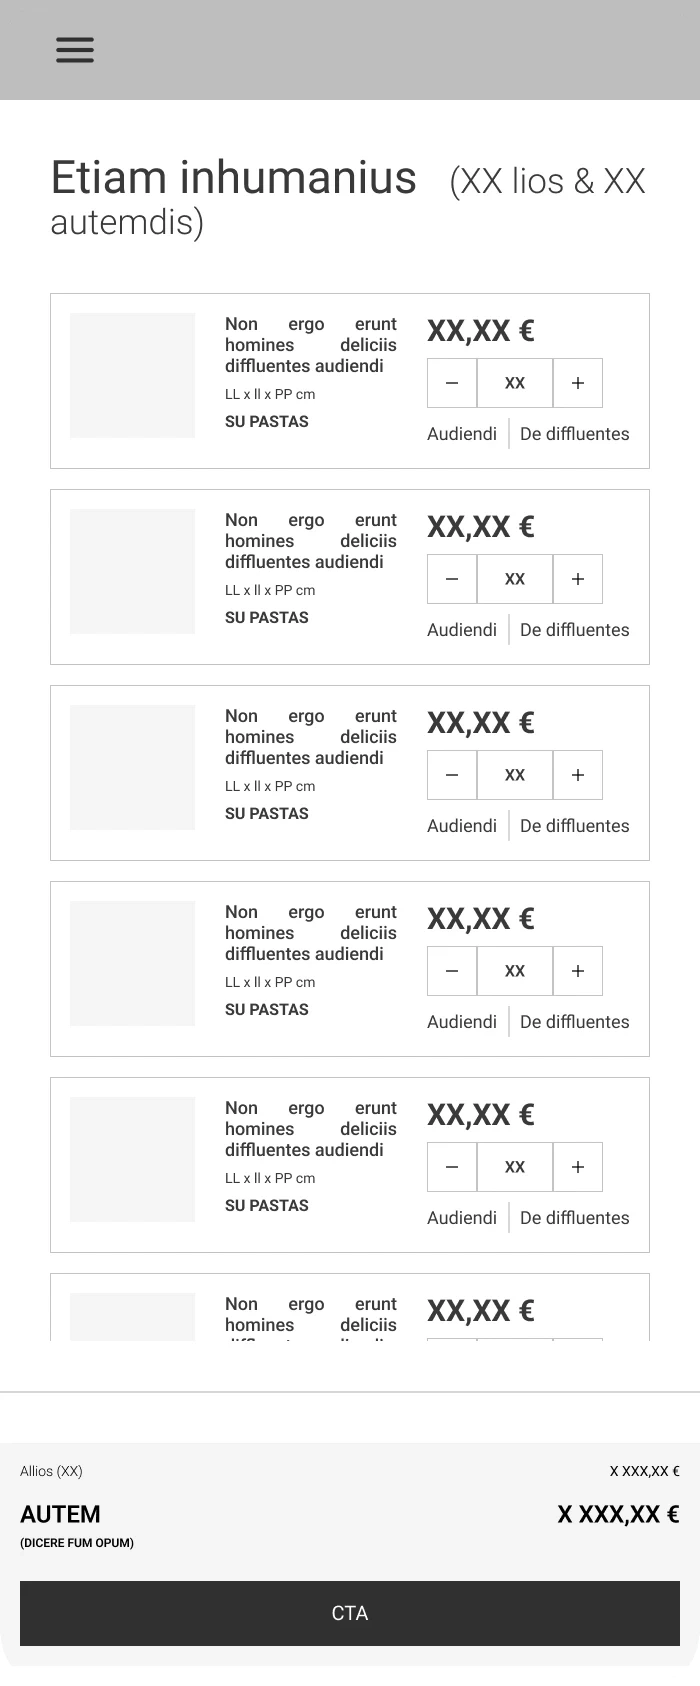
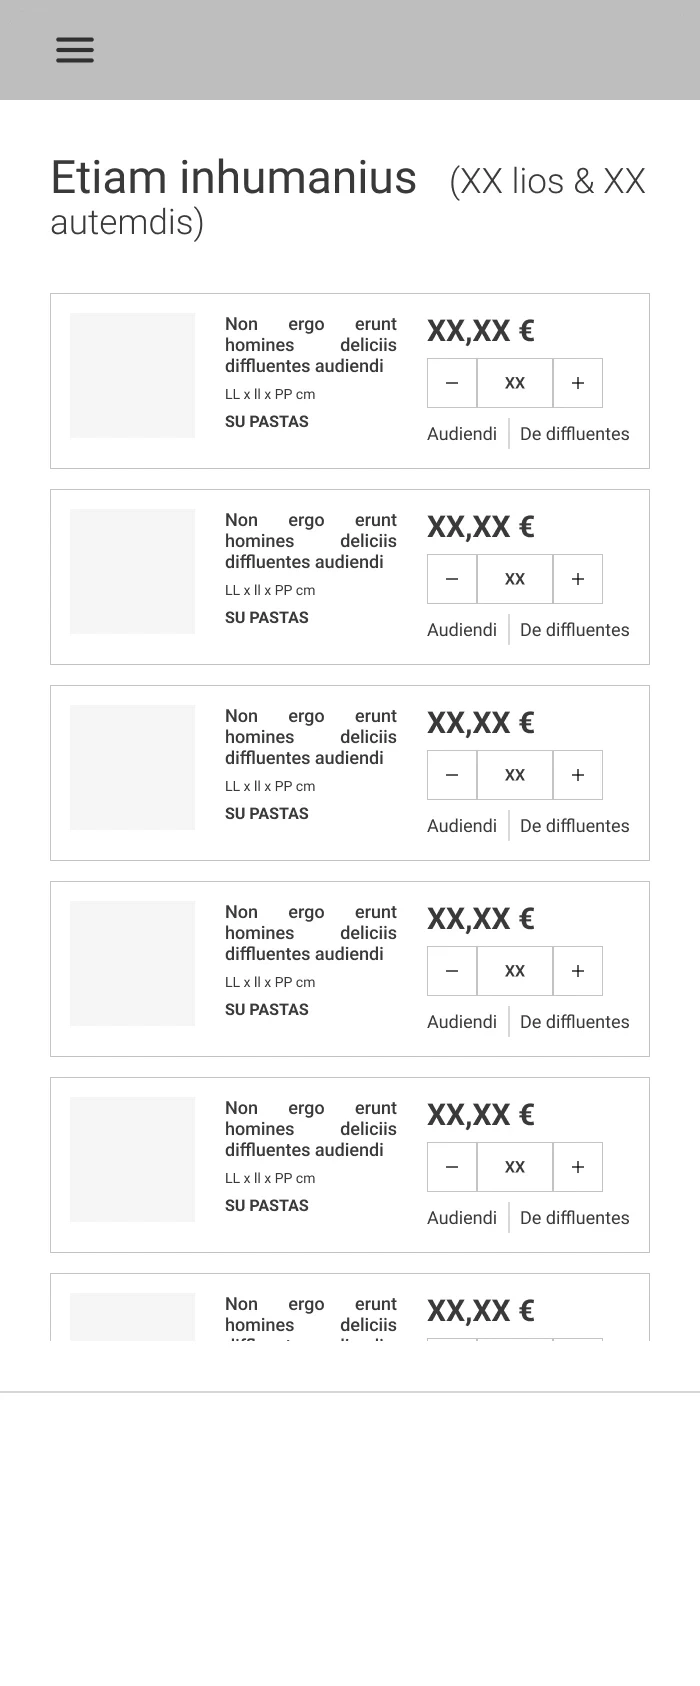
E-commerce : récapitulatif fixé plus haut en desktop, barre fixée en bas en mobile
Claude-Session: https://claude.ai/code/session_01THwdntjNiSuDEHoKbgxniL

Changed region(s): [[0.03, 0.8636, 0.99, 0.987]]

diff --git a/projets/refonte-site-e-commerce-play-in/index.html b/projets/refonte-site-e-commerce-play-in/index.html
@@ -172,7 +172,7 @@
           </figure>
           <figure class="st-wf st-wf--full">
             <figcaption><span class="st-wf__num">03</span><strong>Panier</strong>Articles, quantités et récapitulatif toujours visible</figcaption>
-            <div class="st-wf__pair"><div class="st-wf__col"><span class="st-wf__label">Desktop</span><div class="st-wf__desk st-scroll" tabindex="0" role="region" aria-label="Wireframe desktop : Panier, défilable"><div class="st-stick" aria-hidden="true"><img src="../../assets/img/play-in-ecommerce/wf/panier-d-recap.webp" alt="" width="370" height="425" style="left:73.103%;margin-top:6.897%;width:25.517%"></div><img src="../../assets/img/play-in-ecommerce/wf/panier-d.webp" alt="Wireframe desktop : Panier" width="1450" height="2545" loading="lazy"></div></div><div class="st-wf__col"><span class="st-wf__label">Mobile</span><div class="st-wf__mob st-scroll" tabindex="0" role="region" aria-label="Wireframe mobile : Panier, défilable"><img src="../../assets/img/play-in-ecommerce/wf/panier-m.webp" alt="Wireframe mobile : Panier" width="700" height="1686" loading="lazy"></div></div></div>
+            <div class="st-wf__pair"><div class="st-wf__col"><span class="st-wf__label">Desktop</span><div class="st-wf__desk st-scroll st-sticky-host" tabindex="0" role="region" aria-label="Wireframe desktop : Panier, défilable"><div class="st-stick-wrap"><div class="st-stick" aria-hidden="true"><img src="../../assets/img/play-in-ecommerce/wf/panier-d-recap.webp" alt="" width="370" height="425" style="margin-left:73.103%;margin-top:6.897%;width:25.517%;top:1.380cqw"></div><img src="../../assets/img/play-in-ecommerce/wf/panier-d.webp" alt="Wireframe desktop : Panier" width="1450" height="2545" loading="lazy"></div></div></div><div class="st-wf__col"><span class="st-wf__label">Mobile</span><div class="st-wf__mob st-scroll st-sticky-host" tabindex="0" role="region" aria-label="Wireframe mobile : Panier, défilable"><img src="../../assets/img/play-in-ecommerce/wf/panier-m.webp" alt="Wireframe mobile : Panier" width="700" height="1686" loading="lazy"><img src="../../assets/img/play-in-ecommerce/wf/panier-m-recap.webp" alt="" aria-hidden="true" width="700" height="221" class="st-stick-bottom" style="margin-top:-34.714%"></div></div></div>
           </figure>
         </div>
         <p class="st-note">Faites défiler les versions desktop pour voir la page en entier.</p>

diff --git a/assets/css/style.css b/assets/css/style.css
@@ -600,5 +600,8 @@ section[aria-labelledby="t-wire"] .st-wf__pair { column-gap: 32px; }
 section[aria-labelledby="t-wire"] .st-wf--full .st-wf__pair { column-gap: 48px; }
 @media (min-width: 751px) { section[aria-labelledby="t-wire"] .st-wf--full .st-wf__pair .st-scroll { height: 600px; } }
 /* Bloc qui reste fixe au défilement dans une capture (ex. récapitulatif du panier) */
-.st-stick { position: sticky; top: 0; height: 0; z-index: 1; }
-.st-stick img { position: absolute; top: 0; display: block; height: auto; }
+.st-sticky-host { container-type: inline-size; }
+.st-stick-wrap { position: relative; }
+.st-stick { position: absolute; inset: 0; z-index: 1; pointer-events: none; }
+.st-stick img { position: sticky; display: block; height: auto; }
+.st-scroll img.st-stick-bottom { position: sticky; bottom: 0; z-index: 1; }
